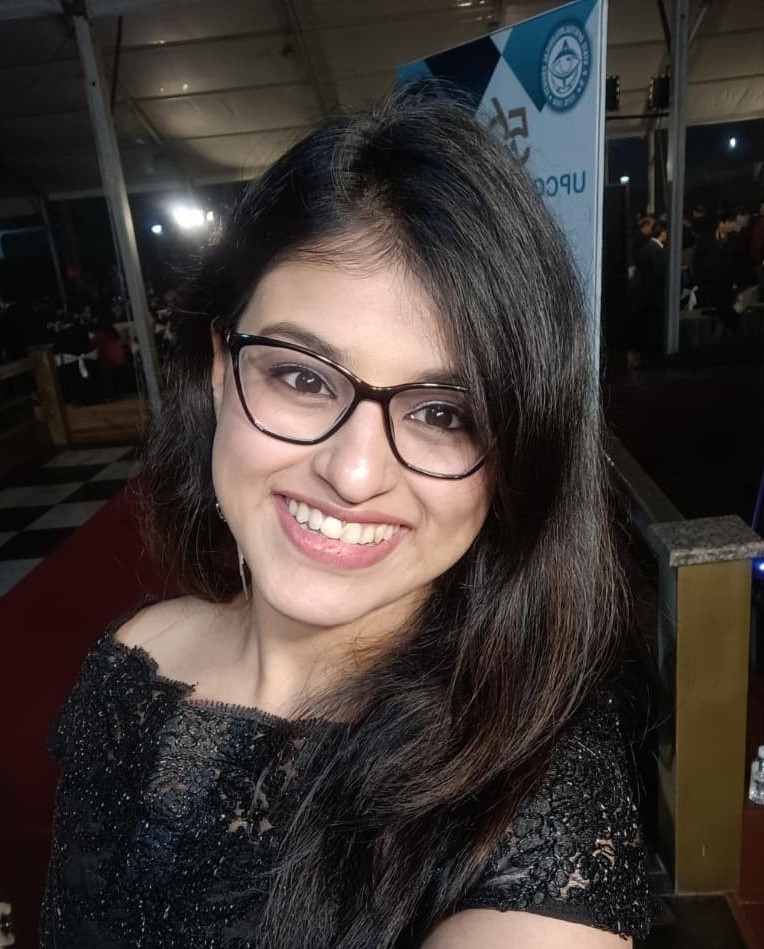
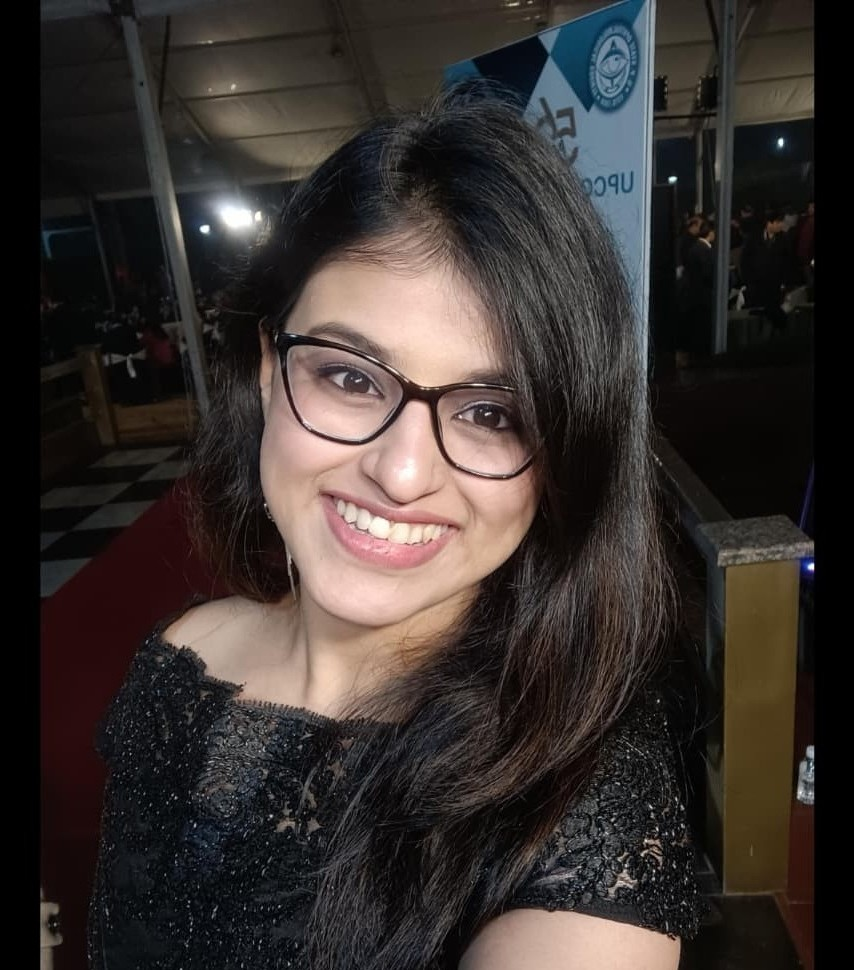
warm regards

diff --git a/src/App.css b/src/App.css
@@ -690,7 +690,7 @@ video::-webkit-media-controls-enclosure { display: none !important; }
 
 .family-parents-name {
   font-family: 'EB Garamond', serif;
-  font-size: clamp(15.5px, 2.8vw, 20px);
+  font-size: clamp(18.5px, 3.5vw, 24px);
   color: #fdf8f0;
   margin: 6px 0;
   font-weight: 600;
@@ -698,6 +698,11 @@ video::-webkit-media-controls-enclosure { display: none !important; }
   white-space: nowrap;
   max-width: 100%;
   text-align: center;
+}
+
+.family-parents-name.family-subtext {
+  font-size: clamp(15.5px, 2.8vw, 20px);
+  margin-top: 8px;
 }
 
 /* ── Overlaid Play Button Pulse Animation ── */

diff --git a/src/components/InvitedBySlide.jsx b/src/components/InvitedBySlide.jsx
@@ -71,7 +71,7 @@ export default function InvitedBySlide({
               <p className="family-parents-name">{grandMother}</p>
               <p className="family-parents-name">{fatherName}</p>
               <p className="family-parents-name">{motherName}</p>
-              <p className="family-parents-name">{familyText}</p>
+              <p className="family-parents-name family-subtext">{familyText}</p>
             </div>
           </div>
         </div>
